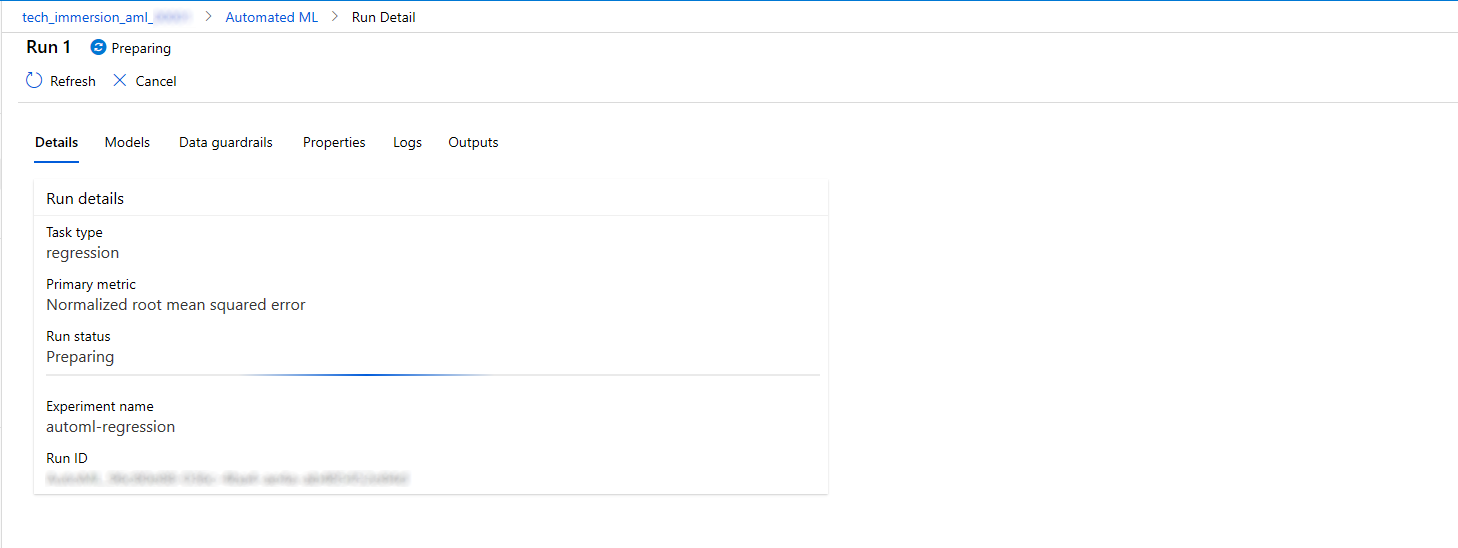
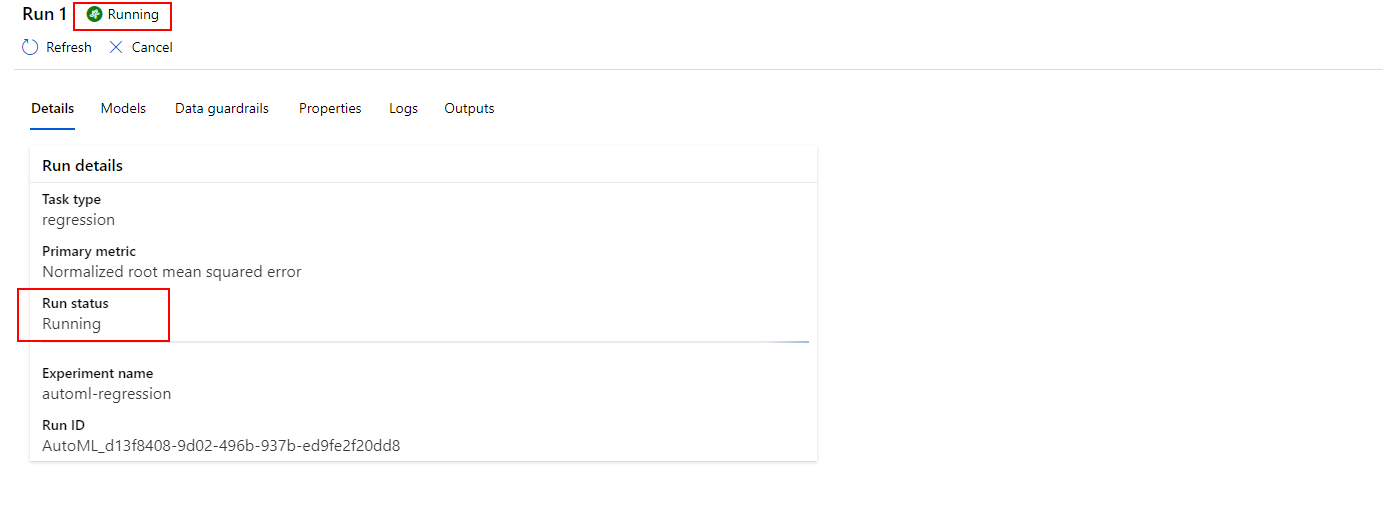
AI Exp 3 fixes aligned with managed environment

diff --git a/ai-exp3/README.md b/ai-exp3/README.md
@@ -2,21 +2,21 @@
 
 ## AI, Experience 3 - Better models made easy with Automated Machine Learning
 
-- [Data & AI Tech Immersion Workshop – Product Review Guide and Lab Instructions](#Data--AI-Tech-Immersion-Workshop-%E2%80%93-Product-Review-Guide-and-Lab-Instructions)
-  - [AI, Experience 3 - Better models made easy with Automated Machine Learning](#AI-Experience-3---Better-models-made-easy-with-Automated-Machine-Learning)
-  - [Technology overview](#Technology-overview)
-  - [Scenario overview](#Scenario-overview)
-  - [Exercise 1: Creating a model using automated machine learning](#Exercise-1-Creating-a-model-using-automated-machine-learning)
-    - [Task 1: Create an automated machine learning experiment using the Portal](#Task-1-Create-an-automated-machine-learning-experiment-using-the-Portal)
-    - [Task 2: Review the experiment run results](#Task-2-Review-the-experiment-run-results)
-    - [Task 3: Register the Best Model](#Task-3-Register-the-Best-Model)
-  - [Exercise 2: Understanding the automated ML generated model using model explainability](#Exercise-2-Understanding-the-automated-ML-generated-model-using-model-explainability)
-    - [Task 1: Setup the Notebook VM environment](#Task-1-Setup-the-Notebook-VM-environment)
-    - [Task 2: Upload the starter notebook](#Task-2-Upload-the-starter-notebook)
-  - [Exercise 3 (Optional): Train and evaluate a model using Azure Machine Learning](#Exercise-3-Optional-Train-and-evaluate-a-model-using-Azure-Machine-Learning)
-    - [Task 1: Upload and open the starter notebook](#Task-1-Upload-and-open-the-starter-notebook)
-  - [Wrap-up](#Wrap-up)
-  - [Additional resources and more information](#Additional-resources-and-more-information)
+- [Data &amp; AI Tech Immersion Workshop – Product Review Guide and Lab Instructions](#data-amp-ai-tech-immersion-workshop-%e2%80%93-product-review-guide-and-lab-instructions)
+  - [AI, Experience 3 - Better models made easy with Automated Machine Learning](#ai-experience-3---better-models-made-easy-with-automated-machine-learning)
+  - [Technology overview](#technology-overview)
+  - [Scenario overview](#scenario-overview)
+  - [Exercise 1: Creating a model using automated machine learning](#exercise-1-creating-a-model-using-automated-machine-learning)
+    - [Task 1: Create an automated machine learning experiment using the Portal](#task-1-create-an-automated-machine-learning-experiment-using-the-portal)
+    - [Task 2: Review the experiment run results](#task-2-review-the-experiment-run-results)
+    - [Task 3: Register the Best Model](#task-3-register-the-best-model)
+  - [Exercise 2: Understanding the automated ML generated model using model explainability](#exercise-2-understanding-the-automated-ml-generated-model-using-model-explainability)
+    - [Task 1: Setup the Notebook VM environment](#task-1-setup-the-notebook-vm-environment)
+    - [Task 2: Upload the starter notebook](#task-2-upload-the-starter-notebook)
+  - [Exercise 3 (Optional): Train and evaluate a model using Azure Machine Learning](#exercise-3-optional-train-and-evaluate-a-model-using-azure-machine-learning)
+    - [Task 1: Upload and open the starter notebook](#task-1-upload-and-open-the-starter-notebook)
+  - [Wrap-up](#wrap-up)
+  - [Additional resources and more information](#additional-resources-and-more-information)
 
 ## Technology overview
 
@@ -46,7 +46,7 @@ In this exercise, you will create a model that predicts battery failure from tim
 
    ![Navigate to Azure Machine Learning studio](./media/001_AzureMachineLearningStudio.png)
 
-2. Select `Automated ML` in the left navigation bar.
+2. Select **Automated ML** in the left navigation bar.
 
    ![Select Automated ML](./media/002_AutomatedML.png)
 
@@ -58,25 +58,25 @@ In this exercise, you will create a model that predicts battery failure from tim
 
    ![Create dataset from local file](./media/004_NewDataset_FromURL.png)
 
-5. Fill in the training data URL in the `Web URL` field: https://quickstartsws9073123377.blob.core.windows.net/azureml-blobstore-0d1c4218-a5f9-418b-bf55-902b65277b85/training-formatted.csv and click **Next** to load a preview of the parsed training data.
+5. Fill in the training data URL in the `Web URL` field: `https://quickstartsws9073123377.blob.core.windows.net/azureml-blobstore-0d1c4218-a5f9-418b-bf55-902b65277b85/training-formatted.csv`, make sure the name is set to `training-formatted-dataset`, and select **Next** to load a preview of the parsed training data.
 
    ![Training data web URL](./media/005_Dataset_BasicInfo.png)
 
-6) In the `Settings and preview` page be sure to scroll to the right to observe all of the columns in the data. 
+6. In the `Settings and preview` page, scroll to the right to observe all of the columns in the data.
 
    ![Reviewing the training data](./media/006_ReviewDataFile.png)
 
-7) Move on to the **Next** page to check the schema and then confirm the dataset details by selecting **Next** and then **Create** on the confirmation page.
+7. Select **Next** to check the schema and then confirm the dataset details by selecting **Next** and then **Create** on the confirmation page.
 
    ![Reviewing the schema of training data](./media/007_TrainingDataSchema.png)
-   
+
    ![Confirm dataset creation](./media/007_ConfirmDataset.png)
 
-8) Now, you should be able to select the newly created dataset for your experiment. Select the `targeting-formatted-dataset` and click **Next** to move to the experiment details page.
+8. Now you should be able to select the newly created dataset for your experiment. Select the `training-formatted-dataset` dataset and select **Next** to move to the experiment run details page.
 
    ![Select the dataset](./media/008_SelectDataset.png)
 
-9) Next, you will configure the Auto ML Experiment Basic Settings by providing the following values for the experiment name, target column and training compute:
+9. You will now configure the Auto ML run basic settings by providing the following values for the experiment name, target column and training compute:
 
    - Experiment name: **automl-regression**
    - Target column: select **Survival_In_Days**
@@ -84,34 +84,35 @@ In this exercise, you will create a model that predicts battery failure from tim
 
    ![Setup Auto ML experiment basic settings](./media/009_SetupExperiment.png)
 
-10) Move **Next** and select **Regression** in the `Task type settings` page.
+10. Select **Next** and select **Regression** in the `Task type and settings` page.
 
     ![Select Regression task type](./media/010_TaskTypeForExperiment.png)
 
-11) Click **View additional configuration settings** to open advanced settings section. Provide the following settings:
+11. Select **View additional configuration settings** to open the advanced settings section. Provide the following settings:
 
-   - Primary metric: **Normalized root mean squared error**
-   - Exit criterion > Metric score threashold: **0.07**
-   - Validation > Validation type: **k-fold cross validation**
-   - Validation > Number of Cross Validations: **5**
-   - Concurency > Max concurrent iterations: **1**
+    - Primary metric: **Normalized root mean squared error**
+    - Exit criterion > Metric score threshold: **0.09**
+    - Validation > Validation type: **k-fold cross validation**
+    - Validation > Number of Cross Validations: **5**
+    - Concurrency > Max concurrent iterations: **1**
+
     ![Configuring the Advanced Settings as described](./media/011_TaskConfigurationSettings.png)
 
-12) Select **Save** and then **Finish** to run the experiment and begin the automated machine learning process. 
+12. Select **Save** and then **Finish** to begin the automated machine learning process.
 
     ![Start Automate ML run](./media/012_CreatingExperiment.png)
 
-13) Wait until the Run status moves from **Preparing** to **Running** in the `Run Detail page`.
+13. Wait until the `Run status` becomes **Running** in the `Run Detail page`.
 
     ![Preparing experiment](./media/012_PreparingExperiment.png)
 
 ### Task 2: Review the experiment run results
 
-1. The experiment will run for about _15 minutes_. Once it completes you should check the `Models` tab on the `Run Detail` page to observe the model performance for the primary metric for different runs.
+1. The experiment will run for about _15 minutes_. While it runs and once it completes, you should check the `Models` tab on the `Run Detail` page to observe the model performance for the primary metric for different runs.
 
    ![Review run details - graph view](./media/021_RunDetails1.png)
 
-2. In the table view of different models, notice at the top the iteration with the best **normalized root mean square error** score. Note that the normalized root mean square error measures the error between the predicted value and actual value. In this case, the model with the lowest normalized root mean square error is the best model.
+2. In the models list, notice at the top the iteration with the best **normalized root mean square error** score. Note that the normalized root mean square error measures the error between the predicted value and actual value. In this case, the model with the lowest normalized root mean square error is the best model.
 
    ![Review run details - table view](./media/022_RunDetails2.png)
 
@@ -119,10 +120,9 @@ In this exercise, you will create a model that predicts battery failure from tim
 
    ![Open experiment runs table](./media/023_CheckExperimentRuns.png)
 
-4. Select the option to **Include child runs** to be able to examine  model performance for the primary metric of different runs. By default, the left chart describes the `mean_absolute_error` value for each run. Click on the pen icon on the right corner of the mean_absolute_error chart to configure the `normalized_root_mean_square_error` metric representation.
+4. Select the option to **Include child runs** to be able to examine  model performance for the primary metric of different runs. By default, the left chart describes the `mean_absolute_error` value for each run. Select the pen icon on the right corner of the `mean_absolute_error` chart to configure the `normalized_root_mean_square_error` metric representation.
 
    ![Review runs - chart view](./media/024_IncludeChildRuns.png)
-
 
 ### Task 3: Register the Best Model
 
@@ -134,9 +134,9 @@ In this exercise, you will create a model that predicts battery failure from tim
 
    ![The Download best model link](./media/032_DeployBestModel.png)
 
-3. You need to register the best model with the Azure Machine Learning model registry so that you can retrieve it later when you want to use it for scoring. Select ![Models button](./media/033_Models.png) in the left navigation pane. 
+3. You need to register the best model with the Azure Machine Learning model registry so that you can retrieve it later when you want to use it for scoring. Select **Models** in the left navigation pane.
 
-4. Click the **Register Model** button at the top of the `Model list`. Enter the name of your model: `automl-regression`, browse for the downloaded model file on the previous step and then press **Register**.
+4. Select **Register Model** at the top of the models list. Enter the name of your model: `automl-regression`, browse for the downloaded model file from the previous step and then select **Register**.
 
    ![Register Model](./media/034_RegisterModel.png)
 
@@ -144,7 +144,7 @@ In this exercise, you will create a model that predicts battery failure from tim
 
    ![Viewing the list of models in the Azure Machine Learning workspace](media/035-automl-registered-model.png)
 
-4. If you see your model in the above list, you are now ready to continue on to the next exercise.
+6. If you see your model in the above list, you are now ready to continue on to the next exercise.
 
 ## Exercise 2: Understanding the automated ML generated model using model explainability
 
@@ -152,36 +152,39 @@ In this exercise, you will create a model that predicts battery failure from tim
 
 To complete this task, you will use an Azure Notebook VM and Azure Machine Learning.
 
-If you have not already created the `tech-immersion` notebook VM in Azure Machine Learning studio follow these steps. If you already have this compute in your environment, continue with the **Task 2**.
+If you have not already created the `tech-immersion` notebook VM in Azure Machine Learning studio follow these steps. If you already have it in your environment, continue with **Task 2**.
 
-1. To start, open Azure Machine Learning studio and navigate to the `tech_immersion_aml_XXXXX` workspace.
+1. To get started, sign-in to the Azure Portal, navigate to your Azure Machine Learning workspace and select **Launch the new Azure Machine Learning studio**. Alternatively, you can sign in directly to the [Azure Machine Learning studio](https://ml.azure.com).
 
 2. Navigate to the `Compute` section by selecting the option on the left navigation menu.
 
-3. Under the `Notebook VMs` tab, click **New** to create the notebook VM. Name it `tech-immersion`, select **Standard_DS3** for VM type and press **Create**. Wait a few minutes until the notebook is fully provisioned.
-4. Back to the `Notebook VMs` tab, click **Refresh** if you are not able to see `tech-immersion` yet. After the notebook VM is listed, click on the **Jupyter** link.
+3. Under the `Notebook VMs` tab, select **New** to create the notebook VM. Name it `tech-immersion`, select `Standard_DS3_V2` for VM type and select **Create**. Wait a few minutes until the notebook VM is fully provisioned.
+
+    > **Note**: If the `Notebook VM names should be unique within an Azure Region` notification appears, choose a different name that is unique to your environment.
+
+4. Back to the `Notebook VMs` tab, select **Refresh** if you are not able to see `tech-immersion` yet. After the notebook VM is listed, select the **Jupyter** link.
 
    ![Open NotebookVM](media/212-OpenNotebookVM.png)
 
 ### Task 2: Upload the starter notebook
 
-
 1. Download the notebook on your local disk from the following URL:
 
-   https://github.com/solliancenet/tech-immersion-data-ai/blob/master/lab-files/ai/3
+   https://github.com/solliancenet/tech-immersion-data-ai/blob/master/lab-files/ai/3/explain-automl-model.ipynb
 
-   Save `scoring-from-automl-model.ipynb` notebook file locally by right-clicking on the file name and selecting **Save link as**.
+   Select **Raw** to view the text version of the file and then right-click in the browser and save the content locally as  `explain-automl-model.ipynb`.
 
-2. In the Jupyter Notebook environment configured in **Task1**, navigate to the `Files` tab and open the automatically created folder named as your username.
+2. In the Jupyter Notebook environment configured in **Task1**, navigate to the `Files` tab to view the root folder content. If you see a folder named after your user name, use that to upload notebooks.
+
 3. Select the **Upload** menu and browse for the notebook downloaded in step 1.
 
    ![Upload notebook](media/05.png 'Upload')
 
 4. Press **Upload** to start uploading the notebook to the VM.
 
-   ![The Upload files from Computer dialog](media/06.png 'Upload files from Computer')
+   ![The Upload files from Computer dialog](media/upload-notebook-01.png 'Upload files from Computer')
 
-5. In the listing, select the Notebook you just uploaded (scoring-from-automl-model.ipynb) to open it.
+5. In the listing, select the Notebook you just uploaded (`explain-automl-model.ipynb`) to open it.
 Please select Kernel **Python 3.6 - Azure ML** if you are prompter with a Kernel not found exception.
 
 6. Follow the instructions within the notebook to complete the experience.
@@ -190,15 +193,16 @@ Please select Kernel **Python 3.6 - Azure ML** if you are prompter with a Kernel
 
 ### Task 1: Upload and open the starter notebook
 
-In this exercise, you will use compute resources provided by Azure Machine Learning to remotely train a set of models using Automated Machine Learning, evaluate performance of each model and pick the best performing model to deploy as a web service. You will perform this lab using Azure Notebooks. The model you train here is created using automated machine learning just as you did in exercise 1, except instead of using the visual interface in the Azure Portal you setup the model training using Python.
+In this exercise, you will use compute resources provided by Azure Machine Learning to remotely train a set of models using Automated Machine Learning, evaluate the performance of each model and pick the best performing model to deploy as a web service. You will perform this lab using an Azure Machine Learning notebook VM. The model you train here is created using automated machine learning just as you did in exercise 1, except instead of using the visual interface in the Azure Machine Learning studio, you setup the model training using Python.
 
 1. Download the notebook on your local disk from the following URL:
 
-   https://github.com/solliancenet/tech-immersion-data-ai/blob/master/lab-files/ai/3
+   https://github.com/solliancenet/tech-immersion-data-ai/blob/master/lab-files/ai/3/predict-battery-life-with-AML.ipynb
 
-   Save `predict-battery-life-with-AML.ipynb` notebook file locally by right-clicking on the file name and selecting **Save link as**.
+   Select **Raw** to view the text version of the file and then right-click in the browser and save the content locally as  `predict-battery-life-with-AML.ipynb`.
 
-2. In the Jupyter Notebook environment navigate to the Files tab and open the automatically created folder named as your username.
+2. In the Jupyter Notebook environment navigate to the `Files` tab to view the root folder content. If you see a folder named after your user name, use that to upload notebooks.
+
 3. Select the **Upload** menu and browse for the notebook downloaded in step 1.
 
    ![Upload notebook](media/05.png 'Upload')
@@ -207,7 +211,7 @@ In this exercise, you will use compute resources provided by Azure Machine Learn
 
    ![The Upload files from Computer dialog](media/06.png 'Upload files from Computer')
 
-5. In the listing, select the Notebook you just uploaded (predict-battery-life-with-AML.ipynb) to open it.
+5. In the listing, select the Notebook you just uploaded (`predict-battery-life-with-AML.ipynb`) to open it.
 Please select Kernel **Python 3.6 - Azure ML** if you are prompter with a `Kernel not found` exception.
 
 6. Follow the instructions within the notebook to complete the experience.

diff --git a/ai-exp5/README.md b/ai-exp5/README.md
@@ -2,13 +2,13 @@
 
 ## AI, Experience 5 - Making deep learning portable with ONNX
 
-- [Data & AI Tech Immersion Workshop – Product Review Guide and Lab Instructions](#Data--AI-Tech-Immersion-Workshop-%E2%80%93-Product-Review-Guide-and-Lab-Instructions)
-  - [AI, Experience 5 - Making deep learning portable with ONNX](#AI-Experience-5---Making-deep-learning-portable-with-ONNX)
-  - [Technology overview](#Technology-overview)
-  - [Scenario overview](#Scenario-overview)
-  - [Task 1: Train and deploy a deep learning model](#Task-1-Train-and-deploy-a-deep-learning-model)
-  - [Wrap-up](#Wrap-up)
-  - [Additional resources and more information](#Additional-resources-and-more-information)
+- [Data &amp; AI Tech Immersion Workshop – Product Review Guide and Lab Instructions](#data-amp-ai-tech-immersion-workshop-%e2%80%93-product-review-guide-and-lab-instructions)
+  - [AI, Experience 5 - Making deep learning portable with ONNX](#ai-experience-5---making-deep-learning-portable-with-onnx)
+  - [Technology overview](#technology-overview)
+  - [Scenario overview](#scenario-overview)
+  - [Task 1: Train and deploy a deep learning model](#task-1-train-and-deploy-a-deep-learning-model)
+  - [Wrap-up](#wrap-up)
+  - [Additional resources and more information](#additional-resources-and-more-information)
 
 ## Technology overview
 
@@ -54,12 +54,13 @@ In this experience you will learn how Contoso Auto can leverage Deep Learning te
 
 In this task, you will train a deep learning model to classify the descriptions of car components provided by technicians as compliant or non-compliant, convert it to ONNX, and deploy it as a web service. To accomplish this, you will use a Notebook VM and Azure Machine Learning.
 
-1. To start, open Azure Machine Learning studio and navigate to the `tech_immersion_aml_XXXXX` workspace.
+1. Open your Azure Machine Learning workspace. Sign-in to the Azure Portal, navigate to your Azure Machine Learning workspace and select **Launch the new Azure Machine Learning studio**. Alternatively, you can sign in directly to the [Azure Machine Learning studio](https://ml.azure.com).
 
 2. Navigate to the `Compute` section by selecting the option on the left navigation menu.
 
-3. Under the `Notebook VMs` tab, if you have already created a notebook VM named `tech-immersion`, go directly to step 5. Otherwise click **New** to create your notebook VM. Name it `tech-immersion`, select **Standard_DS3** for VM type and press **Create**. Wait a few minutes until the notebook is fully provisioned.
-4. Back to the `Notebook VMs` tab, click **Refresh** if you are not able to see `tech-immersion` yet. After the notebook VM is listed, click on the **Jupyter** link.
+3. Under the `Notebook VMs` tab, if you have already created a notebook VM named `tech-immersion`, go directly to step 5. Otherwise select **New** to create your notebook VM. Name it `tech-immersion`, select **Standard_DS3** for VM type and select **Create**. Wait a few minutes until the notebook is fully provisioned.
+
+4. Back to the `Notebook VMs` tab, select **Refresh** if you are not able to see `tech-immersion` yet. After the notebook VM is listed, click on the **Jupyter** link.
 
    ![Open NotebookVM](media/01-OpenNotebookVM.png)
 
@@ -69,8 +70,8 @@ In this task, you will train a deep learning model to classify the descriptions 
 
    Save `deep-learning.ipynb` notebook file locally by right-clicking on the file name and selecting **Save link as**.
 
-6. In the Jupyter Notebook environment navigate to the Files tab and open the automatically created folder named as your username.
-7. Select the **Upload** menu and browse for the notebook downloaded in step 1.
+6. In the Jupyter Notebook environment navigate to the Files tab and open the automatically created folder named after your username.
+7. Select **Upload** and browse for the notebook downloaded in step 1.
 
    ![Upload notebook](media/05.png 'Upload')
 
@@ -79,10 +80,9 @@ In this task, you will train a deep learning model to classify the descriptions 
    ![The Upload files from Computer dialog](media/06.png 'Upload files from Computer')
 
 9. In the listing, select the Notebook you just uploaded (deep-learning.ipynb) to open it.
-Please select Kernel **Python 3.6 - Azure ML** if you are prompter with a `Kernel not found` exception.
+Please select Kernel **Python 3.6 - Azure ML** if you are prompted with a `Kernel not found` exception.
 
 10. Follow the instructions within the notebook to complete the experience.
-
 
 ## Wrap-up
 

diff --git a/environment-setup/ai/3/README.md b/environment-setup/ai/3/README.md
@@ -6,6 +6,7 @@ Complete the steps below to prepare the environment for the [AI, Experience 3](.
 
 - General: The experience runs within an Azure Machine Learning (AML) Notebook VM and uses an AML compute cluster.
 - Attendees will want ready access to their: subscription ID and resource group name.
-- Need pre-created resource group (e.g. `tech-immersion-xxxxx`) and machine learning workspace (e.g. `tech-immersion-aml-xxxxx`) (Workspace edition must be set to **Enterprise**)
-- The AML compute cluster is created within the notebook, which requires a GPU enabled cluster (1 node, Standard_NC12)
-- An ACI instance is created within the notebook, which requires cpu_cores=1, and memory_gb=1
+- Need pre-created resource group (e.g. `tech-immersion-xxxxx`) and machine learning workspace (e.g. `tech-immersion-aml-xxxxx`) (Workspace edition must be set to **Enterprise**).
+- Need a pre-created AML training cluster named `aml-compute-cpu`, with one `STANDARD_DS3_V2` node.
+- An additional AML training cluster is created within one of the notebooks (GPU cluster, one `STANDARD_NC12` node).
+- An ACI instance is created within one of the notebooks (requires `cpu_cores=1`, and `memory_gb=1`).
